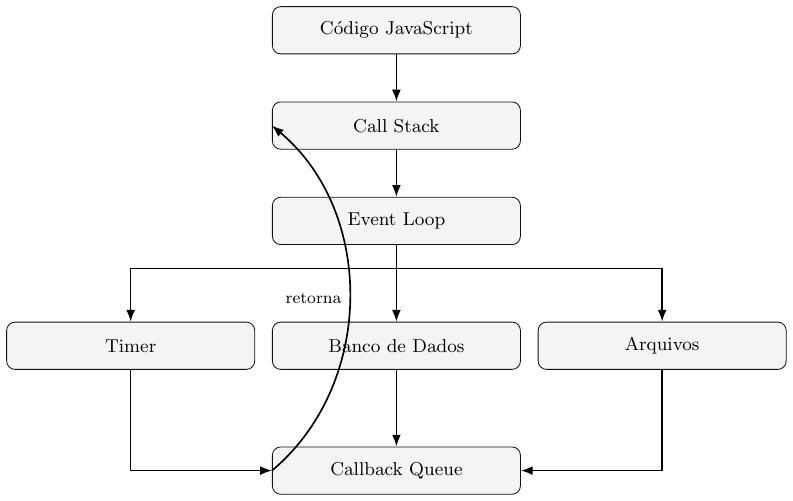
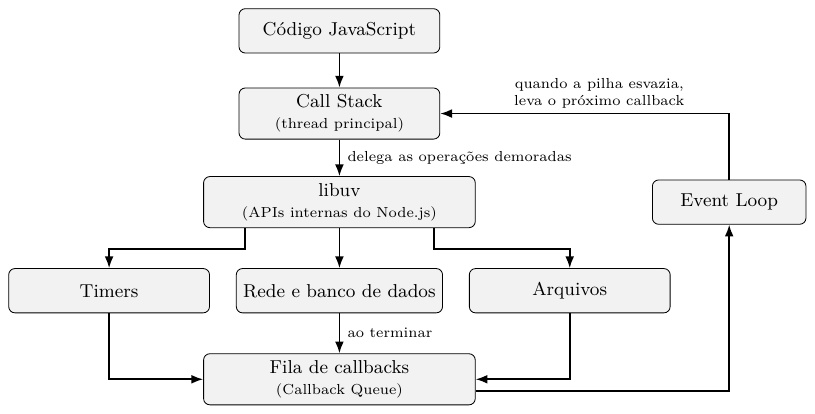
Web II, livro de Node.js: atualizado para outubro de 2026 e últimos ajustes
Node.js 24 LTS e npm 11 (campo type), MySQL 9.7 LTS, Express 5.3, nodemon 3.1; recursos nativos do Node (--watch, --env-file, node --test, TypeScript direto); nota sobre ES Modules; diagrama do Event Loop redesenhado (libuv); tabelas do cap. 6 consistentes até o cap. 8 (SQL testado em sequência, 27 comandos sem erro); buscarPorId no Service; aviso sobre a senha em texto puro; checklist do cap. 12.

diff --git a/site/src/data/apostilas.ts b/site/src/data/apostilas.ts
@@ -737,6 +737,9 @@ export const apostilas: Apostila[] = [
   // (capítulo 10 junta os arquivos 10a a 10d; sem as seções de Estudo de Caso e Resumo Visual)
   // Depois de converter, tire a assinatura "TecPro Tecnologia" do fim do capítulo 13: no site, a
   // TecPro só aparece no rodapé.
+  // Revisado e atualizado em 20/10/2026 direto nos JSON (Node.js 24 LTS, MySQL 9.7 LTS, Express 5.3): reconverter
+  // a partir do LaTeX desfaria as correções. O diagrama do Event Loop (capitulo-04_diagrama3.png) foi redesenhado:
+  // fonte em ferramentas/diagramas/capitulo-04_diagrama3.tex (pdflatex + pdftoppm -png -r 150 -singlefile).
   ...[
     ['Introdução ao Node.js', 'O que é o Node.js, por que foi criado, o que é um runtime, arquitetura, vantagens, limitações e o que é uma API.'],
     ['Preparando o Ambiente de Desenvolvimento Node.js', 'Instalação do Node.js e do VS Code, o primeiro projeto, package.json, package-lock.json, node_modules e o primeiro programa.'],

diff --git a/site/ferramentas/diagramas/capitulo-04_diagrama3.tex b/site/ferramentas/diagramas/capitulo-04_diagrama3.tex
@@ -1,0 +1,35 @@
+\documentclass[border=4pt]{standalone}
+\usepackage[T1]{fontenc}
+\usepackage[utf8]{inputenc}
+\usepackage{lmodern}
+\usepackage{tikz}
+\usetikzlibrary{positioning,arrows.meta}
+\begin{document}
+\begin{tikzpicture}[
+  caixa/.style={draw, rounded corners=3pt, fill=black!5, minimum width=3.4cm,
+                minimum height=0.75cm, align=center, font=\small},
+  seta/.style={-{Latex[length=2mm]}, thick},
+  rotulo/.style={font=\scriptsize, fill=white, inner sep=1.5pt}
+]
+  \node[caixa] (codigo) at (0,0) {Código JavaScript};
+  \node[caixa] (pilha)  at (0,-1.4) {Call Stack\\[-1pt]{\scriptsize (thread principal)}};
+  \node[caixa, minimum width=4.6cm] (libuv) at (0,-2.9) {libuv\\[-1pt]{\scriptsize (APIs internas do Node.js)}};
+  \node[caixa] (timer)   at (-3.9,-4.4) {Timers};
+  \node[caixa] (rede)    at (0,-4.4) {Rede e banco de dados};
+  \node[caixa] (arquivo) at (3.9,-4.4) {Arquivos};
+  \node[caixa, minimum width=4.6cm] (fila) at (0,-5.9) {Fila de callbacks\\[-1pt]{\scriptsize (Callback Queue)}};
+  \node[caixa, minimum width=2.6cm] (loop) at (6.6,-2.9) {Event Loop};
+
+  \draw[seta] (codigo) -- (pilha);
+  \draw[seta] (pilha) -- node[rotulo, right=2pt] {delega as operações demoradas} (libuv);
+  \draw[seta] (libuv.south) -- (rede.north);
+  \draw[seta] (libuv.south) ++(-1.6,0) |- ++(0,-0.35) -| (timer.north);
+  \draw[seta] (libuv.south) ++(1.6,0) |- ++(0,-0.35) -| (arquivo.north);
+  \draw[seta] (timer.south) |- (fila.west);
+  \draw[seta] (rede.south) -- node[rotulo, right=2pt] {ao terminar} (fila.north);
+  \draw[seta] (arquivo.south) |- (fila.east);
+  \draw[seta] (fila.east) ++(0,-0.2) -| (loop.south);
+  \draw[seta] (loop.north) |- (pilha.east);
+  \node[rotulo, align=center, above=1pt] at (4.4,-1.4) {quando a pilha esvazia,\\leva o próximo callback};
+\end{tikzpicture}
+\end{document}
